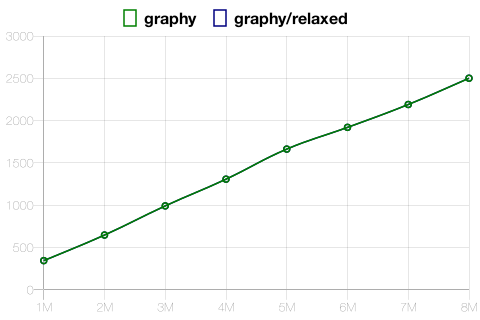
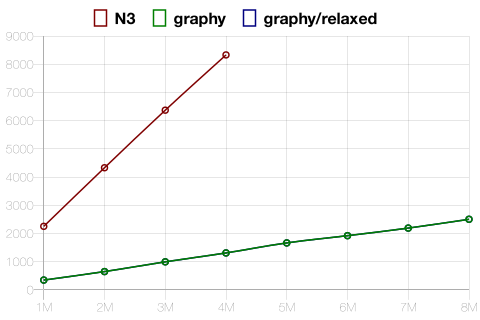
docs: 4.2.0 release prep

diff --git a/perf/compare.js b/perf/compare.js
@@ -31,9 +31,12 @@ const H_DESCRIBE = {
 	'ttl-nt': 'Turtle as input => N-Triples as output',
 };
 
+const quads = p => (+p.replace(/^.*(\d+)M\.\w+$/, '$1')) * 1e6;
+
 const H_TRANSFORM = {
-	elapsed: (h, si) => h? h[si].avg / 1000: Infinity,
-	memory: (h, si) => h? h[si].avg / 1024 / 1024: Infinity,
+	// elapsed: (h, si) => h? h[si].avg / 1000: Infinity,
+	elapsed: (g, si) => g.summary? (quads(g.input) / g.summary[si].avg): Infinity,
+	memory: (g, si) => g.summary? g.summary[si].avg / 1024 / 1024: Infinity,
 };
 
 const H_COLORS = {
@@ -41,12 +44,13 @@ const H_COLORS = {
 	'graphy/relaxed': 'rgba(0, 0, 127, 1)',
 	'graphy/scan.2': 'rgb(204, 51, 255)',
 	'graphy/scan.4': 'rgb(153, 102, 255)',
-	'graphy/scan.6': 'rgb(153, 153, 255)',
+	'graphy/scan.8': 'rgb(153, 153, 255)',
 	'N3/default': 'rgba(127, 0, 0, 1)',
 };
 
 const H_REVIEWS = {
-	elapsed: 'Time Elapsed (s)',
+	// elapsed: 'Time Elapsed (s)',
+	elapsed: 'Velocity (Quads/ms)',
 	memory: 'Memory Usage (MiB)',
 };
 
@@ -194,7 +198,7 @@ async function* r() {
 							backgroundColor: 'rgba(0, 0, 0, 0)',
 							borderColor: H_COLORS[si_test],
 							borderWidth: 1.5,
-						}).data.push(H_TRANSFORM[s_review](g_test.summary, s_review));
+						}).data.push(H_TRANSFORM[s_review](g_test, s_review));
 					}
 
 					let si_chart = `${si_task}_${s_flavor}_${s_label}_${s_review}`;
@@ -224,7 +228,9 @@ async function* r() {
 		# Performance Benchmarks
 		The following diagrams plot the mean value of 5 trials for each data point.
 
-		The X-axis units are in Millions of Quads, and correspond to the number of triples/quads fed into the process via stdin.
+		The X-axis units for all charts are in Millions of Quads, and correspond to the number of triples/quads fed into the process via stdin.
+
+		The Y-axis for 'Velocity' charts denotes the number of Quads per millisecond (Quads/ms) the task completed at.
 
 		There are multiple modes for \`graphy\`:
 		  - the default mode with validation enabled for reading

diff --git a/emk.js b/emk.js
@@ -656,7 +656,7 @@ module.exports = async() => {
 					],
 
 					run: /* syntax: bash */ `
-						npx mocha --colors $3
+						npx mocha --timeout 5000 --colors $3
 					`,
 				}),
 
@@ -668,7 +668,7 @@ module.exports = async() => {
 					],
 
 					run: /* syntax: bash */ `
-						npx mocha --colors $1
+						npx mocha --timeout 5000 --colors $1
 					`,
 				}),
 

diff --git a/perf/all.js b/perf/all.js
@@ -137,7 +137,7 @@ const H_PARTIES = {
 	graphy: {
 		label: 'graphy',
 		href: 'https://github.com/blake-regalia/graphy.js',
-		version: require('graphy/package.json').version,
+		version: require('../package.json').version,
 
 		tasks: {
 			count: H_TASK_PERMS.count({

diff --git a/perf/README.md b/perf/README.md
@@ -1,19 +1,26 @@
 # Performance Benchmarks
 The following diagrams plot the mean value of 5 trials for each data point.
 
-The X-axis units are in Millions of Quads, and correspond to the number of triples/quads fed into the process via stdin.
+The X-axis units for all charts are in Millions of Quads, and correspond to the number of triples/quads fed into the process via stdin.
 
-There are usually two modes for `graphy`, the default mode with validation enabled for reading, and ['relaxed' mode](https://graphy.link/content.textual#config_read-no-input), which skips validation for faster read speeds.
+The Y-axis for 'Velocity' charts denotes the number of Quads per millisecond (Quads/ms) the task completed at.
+
+There are multiple modes for `graphy`:
+  - the default mode with validation enabled for reading
+  - ['relaxed' mode](https://graphy.link/content.textual#config_read-no-input), which skips validation for faster read speeds
+  - ['scan' mode](https://graphy.link/content.textual#verb_scan), which uses multiple threads (2, 4, or 6 in these trials) to read the input stream
 
 All Turtle input files are using prefixed names for identifiers when possible.
 
 Memory-intensive tasks were run with the `--max-old-space-size=8192` node.js option (e.g., the [distinct task](#distinct-task)). Some charts show an exponential jump in time due to the fact that V8's GC starts aggressively trying to free up memory.
 
+Memory usage represents the resident stack size (RSS) at the moment the results are reported. For `graphy/scan` modes, memory usage stats are not yet available.
+
 Want to see how other libraries stack up? Feel free to [open an issue](https://github.com/blake-regalia/graphy.js/issues).
 
-## Versions
+## Competitors
  - [N3.js](https://github.com/rdfjs/N3.js) v1.3.5
- - [graphy](https://github.com/blake-regalia/graphy.js) v4.0.2
+ - [graphy](https://github.com/blake-regalia/graphy.js) v4.2.0
 
 
 ## Table of Contents
@@ -37,13 +44,13 @@ Count the number of statements in an RDF document.
 
 Input File: Wikidata Data Dump
 
-Time Elapsed (s) | Memory Usage (MiB)
+Velocity (Quads/ms) | Memory Usage (MiB)
 :---:|:---:
 ![Performance Review of elapsed for count Task with N-Triples as input](chart/count_nt_wikidata_elapsed.png) | ![Performance Review of memory for count Task with N-Triples as input](chart/count_nt_wikidata_memory.png)
 
 Input File: DBpedia "Person Data" Dump
 
-Time Elapsed (s) | Memory Usage (MiB)
+Velocity (Quads/ms) | Memory Usage (MiB)
 :---:|:---:
 ![Performance Review of elapsed for count Task with N-Triples as input](chart/count_nt_persondata_en_elapsed.png) | ![Performance Review of memory for count Task with N-Triples as input](chart/count_nt_persondata_en_memory.png)
 
@@ -53,13 +60,13 @@ Time Elapsed (s) | Memory Usage (MiB)
 
 Input File: Wikidata Data Dump
 
-Time Elapsed (s) | Memory Usage (MiB)
+Velocity (Quads/ms) | Memory Usage (MiB)
 :---:|:---:
 ![Performance Review of elapsed for count Task with Turtle as input](chart/count_ttl_wikidata_elapsed.png) | ![Performance Review of memory for count Task with Turtle as input](chart/count_ttl_wikidata_memory.png)
 
 Input File: DBpedia "Person Data" Dump
 
-Time Elapsed (s) | Memory Usage (MiB)
+Velocity (Quads/ms) | Memory Usage (MiB)
 :---:|:---:
 ![Performance Review of elapsed for count Task with Turtle as input](chart/count_ttl_persondata_en_elapsed.png) | ![Performance Review of memory for count Task with Turtle as input](chart/count_ttl_persondata_en_memory.png)
 
@@ -79,13 +86,13 @@ Count the distinct number of triples/quads in an RDF document.
 
 Input File: Wikidata Data Dump
 
-Time Elapsed (s) | Memory Usage (MiB)
+Velocity (Quads/ms) | Memory Usage (MiB)
 :---:|:---:
 ![Performance Review of elapsed for distinct Task with N-Triples as input](chart/distinct_nt_wikidata_elapsed.png) | ![Performance Review of memory for distinct Task with N-Triples as input](chart/distinct_nt_wikidata_memory.png)
 
 Input File: DBpedia "Person Data" Dump
 
-Time Elapsed (s) | Memory Usage (MiB)
+Velocity (Quads/ms) | Memory Usage (MiB)
 :---:|:---:
 ![Performance Review of elapsed for distinct Task with N-Triples as input](chart/distinct_nt_persondata_en_elapsed.png) | ![Performance Review of memory for distinct Task with N-Triples as input](chart/distinct_nt_persondata_en_memory.png)
 
@@ -95,13 +102,13 @@ Time Elapsed (s) | Memory Usage (MiB)
 
 Input File: Wikidata Data Dump
 
-Time Elapsed (s) | Memory Usage (MiB)
+Velocity (Quads/ms) | Memory Usage (MiB)
 :---:|:---:
 ![Performance Review of elapsed for distinct Task with Turtle as input](chart/distinct_ttl_wikidata_elapsed.png) | ![Performance Review of memory for distinct Task with Turtle as input](chart/distinct_ttl_wikidata_memory.png)
 
 Input File: DBpedia "Person Data" Dump
 
-Time Elapsed (s) | Memory Usage (MiB)
+Velocity (Quads/ms) | Memory Usage (MiB)
 :---:|:---:
 ![Performance Review of elapsed for distinct Task with Turtle as input](chart/distinct_ttl_persondata_en_elapsed.png) | ![Performance Review of memory for distinct Task with Turtle as input](chart/distinct_ttl_persondata_en_memory.png)
 
@@ -121,13 +128,13 @@ Convert an RDF document from one serialization format to another.
 
 Input File: Wikidata Data Dump
 
-Time Elapsed (s) | Memory Usage (MiB)
+Velocity (Quads/ms) | Memory Usage (MiB)
 :---:|:---:
 ![Performance Review of elapsed for convert Task with N-Triples as input => Turtle as output](chart/convert_nt-ttl_wikidata_elapsed.png) | ![Performance Review of memory for convert Task with N-Triples as input => Turtle as output](chart/convert_nt-ttl_wikidata_memory.png)
 
 Input File: DBpedia "Person Data" Dump
 
-Time Elapsed (s) | Memory Usage (MiB)
+Velocity (Quads/ms) | Memory Usage (MiB)
 :---:|:---:
 ![Performance Review of elapsed for convert Task with N-Triples as input => Turtle as output](chart/convert_nt-ttl_persondata_en_elapsed.png) | ![Performance Review of memory for convert Task with N-Triples as input => Turtle as output](chart/convert_nt-ttl_persondata_en_memory.png)
 
@@ -137,13 +144,13 @@ Time Elapsed (s) | Memory Usage (MiB)
 
 Input File: Wikidata Data Dump
 
-Time Elapsed (s) | Memory Usage (MiB)
+Velocity (Quads/ms) | Memory Usage (MiB)
 :---:|:---:
 ![Performance Review of elapsed for convert Task with Turtle as input => N-Triples as output](chart/convert_ttl-nt_wikidata_elapsed.png) | ![Performance Review of memory for convert Task with Turtle as input => N-Triples as output](chart/convert_ttl-nt_wikidata_memory.png)
 
 Input File: DBpedia "Person Data" Dump
 
-Time Elapsed (s) | Memory Usage (MiB)
+Velocity (Quads/ms) | Memory Usage (MiB)
 :---:|:---:
 ![Performance Review of elapsed for convert Task with Turtle as input => N-Triples as output](chart/convert_ttl-nt_persondata_en_elapsed.png) | ![Performance Review of memory for convert Task with Turtle as input => N-Triples as output](chart/convert_ttl-nt_persondata_en_memory.png)
 

diff --git a/README.md b/README.md
@@ -1,43 +1,28 @@
 [![NPM version][npm-image]][npm-url] [![Dependency Status][daviddm-image]][daviddm-url] 
 
 # graphy.js 🍌
-`graphy` is a collection of *high-performance* RDF libraries for JavaScript developers with a focus on usability. 
+`graphy` is a collection of *high-performance* RDF libraries for JavaScript developers with a focus on usability. API works in both the browser and Node.js. Expressive CLI tool also available for Node.js.
 
 
-## [See API Documentation](https://graphy.link/api)
-Find the package you need _or_ install the super-package `npm install --save graphy` .
-
-Data Factory
- - [`@graphy/core.data.factory`](https://graphy.link/core.data.factory) -- Data Factory
-
-Dataset
- - [`@graphy/memory.dataset.fast`](https://graphy.link/memory.dataset.fast) -- Dataset
-
-Readers
- - [`@graphy/content.nt.read`](https://graphy.link/content.textual#verb_read) -- N-Triples reader
- - [`@graphy/content.nq.read`](https://graphy.link/content.textual#verb_read) -- N-Quads reader
- - [`@graphy/content.ttl.read`](https://graphy.link/content.textual#verb_read) -- Turtle reader
- - [`@graphy/content.trig.read`](https://graphy.link/content.textual#verb_read) -- TriG reader
-
-Scribers
- - [`@graphy/content.nt.scribe`](https://graphy.link/content.textual#verb_scribe) -- N-Triples scriber
- - [`@graphy/content.nq.scribe`](https://graphy.link/content.textual#verb_scribe) -- N-Quads scriber
- - [`@graphy/content.ttl.scribe`](https://graphy.link/content.textual#verb_scribe) -- Turtle scriber
- - [`@graphy/content.trig.scribe`](https://graphy.link/content.textual#verb_scribe) -- TriG scriber
- - [`@graphy/content.xml.scribe`](https://graphy.link/content.textual#verb_scribe) -- RDF/XML scriber
-
-Writers
- - [`@graphy/content.nt.write`](https://graphy.link/content.textual#verb_write) -- N-Triples writer
- - [`@graphy/content.nq.write`](https://graphy.link/content.textual#verb_write) -- N-Quads writer
- - [`@graphy/content.ttl.write`](https://graphy.link/content.textual#verb_write) -- Turtle writer
- - [`@graphy/content.trig.write`](https://graphy.link/content.textual#verb_write) -- TriG writer
+## Performance Benchmarks
+🚀 [See how well `graphy` outperforms all others](https://github.com/blake-regalia/graphy.js/blob/master/perf/README.md).
 
 
-## [Command Line Interface](https://graphy.link/cli)
-`npm install --global graphy`
+## Command Line Interface
+[Documentation](https://graphy.link/cli)
 
+#### Install
+npm:
+```console
+$ npm install --global graphy
+$ graphy --help
+```
 
-## [Performance Benchmarks](https://github.com/blake-regalia/graphy.js/tree/master/perf)
+yarn:
+```console
+$ yarn global add graphy
+$ graphy --help
+```
 
 
 ## [Features](https://graphy.link/)
@@ -49,6 +34,29 @@ Writers
  - [Transform RDF data from the command-line](https://graphy.link/cli) by piping them through a series of sub-commands.
 
 
+## [See API Documentation](https://graphy.link/api)
+Find the package you need _or_ install the super-package `npm install --save graphy` .
+
+Core
+ - [DataFactory](https://graphy.link/core.data.factory)
+
+Memory
+ - [FastDataset](https://graphy.link/memory.dataset.fast)
+
+N-Triples
+ - [NTriplesReader](https://graphy.link/content.textual#verb_read), [NTriplesScanner](https://graphy.link/content.textual#verb_scan), [NTriplesWriter](https://graphy.link/content.textual#verb_write), [NTriplesScriber](https://graphy.link/content.textual#verb_scribe)
+
+N-Quads
+ - [NQuadsReader](https://graphy.link/content.textual#verb_read), [NQuadsScanner](https://graphy.link/content.textual#verb_scan), [NQuadsWriter](https://graphy.link/content.textual#verb_write), [NQuadsScriber](https://graphy.link/content.textual#verb_scribe)
+
+Turtle
+ - [TurtleReader](https://graphy.link/content.textual#verb_read), [TurtleWriter](https://graphy.link/content.textual#verb_write), [TurtleScriber](https://graphy.link/content.textual#verb_scribe)
+
+TriG
+ - [TriGReader](https://graphy.link/content.textual#verb_read), [TriGWriter](https://graphy.link/content.textual#verb_write), [TriGScriber](https://graphy.link/content.textual#verb_scribe)
+
+RDF/XML
+ - [RdfXmlScriber](https://graphy.link/content.textual#verb_scribe)
 
 
 ## License

diff --git a/docs/cli.md b/docs/cli.md
@@ -119,7 +119,7 @@ _Examples:_
 ### [`scan`](#command_scan)` [OPTIONS]`
 Scan RDF content, i.e., deserialize it and do stuff using multiple threads.
 
-> EXPERIMENTAL! The `scan` verb is currently experimental. Use at your own risk.
+> EXPERIMENTAL! The `scan` verb is currently experimental.
 
 **Stream Multiplicity:**
  - `N-to-N<string, `[`QuadStream`](#class_quad-stream)`>` -- **maps** 1 or more input streams of utf-8 encoded strings into 1 or more output streams of [Quad](core.data.factory#class_quad) objects.
